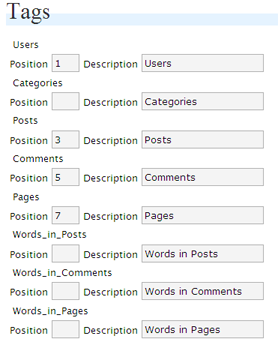
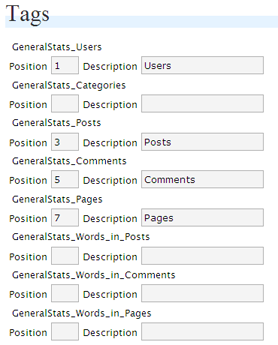
git-svn-id: https://plugins.svn.wordpress.org/generalstats/trunk@12042 b8457f37-d9ea-0310-8a92-e5e31aec5664

diff --git a/general-stats.php b/general-stats.php
@@ -3,9 +3,9 @@
 /*
 Plugin Name: GeneralStats
 Plugin URI: http://www.neotrinity.at/projects/
-Description: Count the number of users, categories, posts, comments, pages, words in posts, words in comments and words in pages.
+Description: Count the number of users, categories, posts, comments, pages, words in posts, words in comments and words in pages. - Find the options <a href="/wp-admin/options-general.php?page=generalstats/general-stats.php">here</a>!
 Author: Bernhard Riedl
-Version: 0.21 (beta)
+Version: 0.30 (beta)
 Author URI: http://www.neotrinity.at
 */
 
@@ -60,14 +60,78 @@ An example-configuration for a weblog with 27598 Users:
 */
 
 
-add_action('wp_head', 'generalstats_wp_head');
+/*
+**********************************************
+stop editing here unless you know what you do!
+**********************************************
+/*
 
-function generalstats_wp_head() {
-  echo("<meta name=\"GeneralStats\" content=\"0.21\"/>");
+/*
+called from init hook
+*/
+
+function generalstats_init() {
+	add_action('wp_head', 'generalstats_wp_head');
+	add_action('admin_menu', 'addGeneralStatsOptionPage');
 }
 
 /*
-print stats as defined in the option page
+called from widget_init hook
+*/
+
+function widget_generalstats_init() {
+	register_sidebar_widget(array('GeneralStats', 'widgets'), 'widget_generalstats');
+	register_widget_control(array('GeneralStats', 'widgets'), 'widget_generalstats_control', 300, 100);
+}
+
+/*
+adds metainformation - please leave this for stats!
+*/
+
+function generalstats_wp_head() {
+  echo("<meta name=\"GeneralStats\" content=\"0.30\"/>");
+}
+
+/*
+widget functions
+*/
+
+function widget_generalstats($args) {
+	extract($args);
+
+	$options = get_option('widget_generalstats');
+	$title = $options['title'];
+
+	echo $before_widget;
+	echo $before_title . htmlentities($title) . $after_title;
+	GeneralStatsComplete();
+    	echo $after_widget;
+}
+
+/*
+widget control
+*/
+
+function widget_generalstats_control() {
+
+	// Get our options and see if we're handling a form submission.
+	$options = get_option('widget_generalstats');
+	if ( !is_array($options) )
+		$options = array('title'=>'', 'buttontext'=>__('GeneralStats', 'widgets'));
+		if ( $_POST['generalstats-submit'] ) {
+			$options['title'] = strip_tags(stripslashes($_POST['generalstats-title']));
+			update_option('widget_generalstats', $options);
+		}
+
+		$title = htmlspecialchars($options['title'], ENT_QUOTES);
+		
+		echo '<p style="text-align:right;"><label for="generalstats-title">' . __('Title:') . ' <input style="width: 200px;" id="generalstats-title" name="generalstats-title" type="text" value="'.$title.'" /></label></p>';
+		echo '<input type="hidden" id="generalstats-submit" name="generalstats-submit" value="1" />';
+		echo '<p style="text-align:left;"><label for="generalstats-options">Find the options <a href="/wp-admin/options-general.php?page=generalstats/general-stats.php">here</a>!</label></p>';
+	}
+
+/*
+echos stats as defined in the option page
 */
 
 function GeneralStatsComplete() {
@@ -76,26 +140,26 @@ function GeneralStatsComplete() {
     get general tags
     */
 
-    $before_list=stripslashes(get_option('before_List'));
-    $after_list=stripslashes(get_option('after_List'));
-    $before_tag=stripslashes(get_option('before_Tag'));
-    $after_tag=stripslashes(get_option('after_Tag'));
-    $before_detail=stripslashes(get_option('before_Details'));
-    $after_detail=stripslashes(get_option('after_Details'));
+    $before_list=stripslashes(get_option('GeneralStats_before_List'));
+    $after_list=stripslashes(get_option('GeneralStats_after_List'));
+    $before_tag=stripslashes(get_option('GeneralStats_before_Tag'));
+    $after_tag=stripslashes(get_option('GeneralStats_after_Tag'));
+    $before_detail=stripslashes(get_option('GeneralStats_before_Details'));
+    $after_detail=stripslashes(get_option('GeneralStats_after_Details'));
 
     /*
     which order do you like today?
     */
 
     $orders=array();
-    if (get_option('Users_Position')!="") $orders[0] = get_option('Users_Position');
-    if (get_option('Categories_Position')!="") $orders[1] = get_option('Categories_Position');
-    if (get_option('Posts_Position')!="") $orders[2] = get_option('Posts_Position');
-    if (get_option('Comments_Position')!="") $orders[3] = get_option('Comments_Position');
-    if (get_option('Pages_Position')!="") $orders[4] = get_option('Pages_Position');
-    if (get_option('Words_in_Posts_Position')!="") $orders[10] = get_option('Words_in_Posts_Position');
-    if (get_option('Words_in_Comments_Position')!="") $orders[11] = get_option('Words_in_Comments_Position');
-    if (get_option('Words_in_Pages_Position')!="") $orders[12] = get_option('Words_in_Pages_Position');
+    if (get_option('Users_Position')!="") $orders[0] = get_option('GeneralStats_Users_Position');
+    if (get_option('Categories_Position')!="") $orders[1] = get_option('GeneralStats_Categories_Position');
+    if (get_option('Posts_Position')!="") $orders[2] = get_option('GeneralStats_Posts_Position');
+    if (get_option('Comments_Position')!="") $orders[3] = get_option('GeneralStats_Comments_Position');
+    if (get_option('Pages_Position')!="") $orders[4] = get_option('GeneralStats_Pages_Position');
+    if (get_option('Words_in_Posts_Position')!="") $orders[10] = get_option('GeneralStats_Words_in_Posts_Position');
+    if (get_option('Words_in_Comments_Position')!="") $orders[11] = get_option('GeneralStats_Words_in_Comments_Position');
+    if (get_option('Words_in_Pages_Position')!="") $orders[12] = get_option('GeneralStats_Words_in_Pages_Position');
 
     /*
     sort as wished
@@ -119,32 +183,32 @@ function GeneralStatsComplete() {
 
         switch($key) {
           case 0;
-              $tag=get_option('Users_Description');
+              $tag=get_option('GeneralStats_Users_Description');
               break;
           case 1;
-              $tag=get_option('Categories_Description');
+              $tag=get_option('GeneralStats_Categories_Description');
               break;
           case 2;
-              $tag=get_option('Posts_Description');
+              $tag=get_option('GeneralStats_Posts_Description');
               break;
           case 3;
-              $tag=get_option('Comments_Description');
+              $tag=get_option('GeneralStats_Comments_Description');
               break;
           case 4;
-              $tag=get_option('Pages_Description');
+              $tag=get_option('GeneralStats_Pages_Description');
               break;
           case 10;
-              $tag=get_option('Words_in_Posts_Description');
+              $tag=get_option('GeneralStats_Words_in_Posts_Description');
               break;
           case 11;
-              $tag=get_option('Words_in_Comments_Description');
+              $tag=get_option('GeneralStats_Words_in_Comments_Description');
               break;
           case 12;
-              $tag=get_option('Words_in_Pages_Description');
+              $tag=get_option('GeneralStats_Words_in_Pages_Description');
               break;
         }
 
-        $count=number_format($count,'0','',get_option('Thousand_Delimiter'));
+        $count=number_format($count,'0','',get_option('GeneralStats_Thousand_Delimiter'));
 
         echo $before_tag.$tag.$after_tag.$before_detail.$count.$after_detail;
 
@@ -239,8 +303,8 @@ Option Page
 
 function createGeneralStatsOptionPage() {
 
-    $fields=array("Users", "Categories", "Posts", "Comments", "Pages", "Words_in_Posts", "Words_in_Comments", "Words_in_Pages");
-    $csstags=array("before_List", "after_List", "before_Tag", "after_Tag", "before_Details", "after_Details");
+    $fields=array("GeneralStats_Users", "GeneralStats_Categories", "GeneralStats_Posts", "GeneralStats_Comments", "GeneralStats_Pages", "GeneralStats_Words_in_Posts", "GeneralStats_Words_in_Comments", "GeneralStats_Words_in_Pages");
+    $csstags=array("GeneralStats_before_List", "GeneralStats_after_List", "GeneralStats_before_Tag", "GeneralStats_after_Tag", "GeneralStats_before_Details", "GeneralStats_after_Details");
 
     /*
     configuration changed => store parameters
@@ -257,7 +321,7 @@ function createGeneralStatsOptionPage() {
             update_option($csstag, $_POST[$csstag]);
         }
 
-        update_option('Thousand_Delimiter', $_POST['Thousand_Delimiter']);
+        update_option('GeneralStats_Thousand_Delimiter', $_POST['GeneralStats_Thousand_Delimiter']);
 
         ?><div class="updated"><p><strong>
         <?php _e('Configuration changed!')?></strong></p></div>
@@ -303,8 +367,8 @@ function createGeneralStatsOptionPage() {
      ?>
 
      <fieldset>
-        <legend><?php _e('Thousand Delimiter') ?></legend>
-            <input type="text" size="2" name="Thousand_Delimiter" value="<?php echo get_option('Thousand_Delimiter'); ?>" />
+        <legend><?php _e('GeneralStats_Thousand Delimiter') ?></legend>
+            <input type="text" size="2" name="GeneralStats_Thousand_Delimiter" value="<?php echo get_option('GeneralStats_Thousand_Delimiter'); ?>" />
       </fieldset>
 
     <h2>Preview (call GeneralStatsComplete(); wherever you like!)</h2>
@@ -318,6 +382,7 @@ function createGeneralStatsOptionPage() {
 <?php
 }
 
-add_action('admin_menu', 'addGeneralStatsOptionPage');
+add_action('init', 'generalstats_init');
+add_action('widgets_init', 'widget_generalstats_init');
 
 ?>
